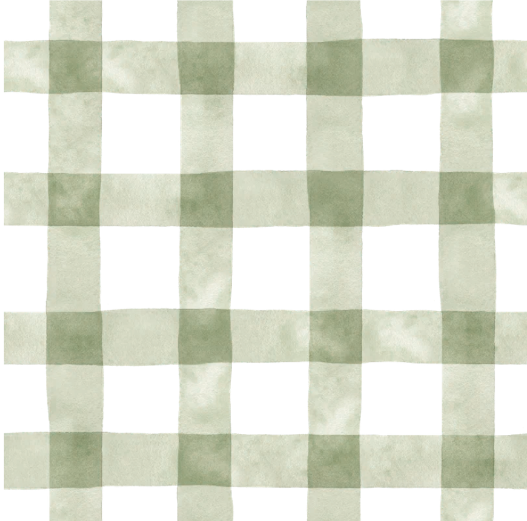
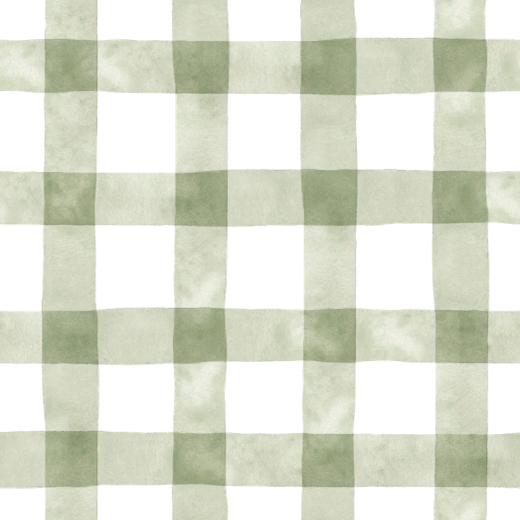
fix(modal): remove linhas brancas da borda da estampa xadrez tornando o padrao 100% continuo

diff --git a/frontend/src/components/ProductDetailModal.tsx b/frontend/src/components/ProductDetailModal.tsx
@@ -265,7 +265,7 @@ export const ProductDetailModal: React.FC<ProductDetailModalProps> = ({
               style={{
                 backgroundImage: `url(${ginghamPattern})`,
                 backgroundRepeat: 'repeat',
-                backgroundSize: '200px auto',
+                backgroundSize: '260px 260px',
                 backgroundPosition: 'center top',
               }}
             />
